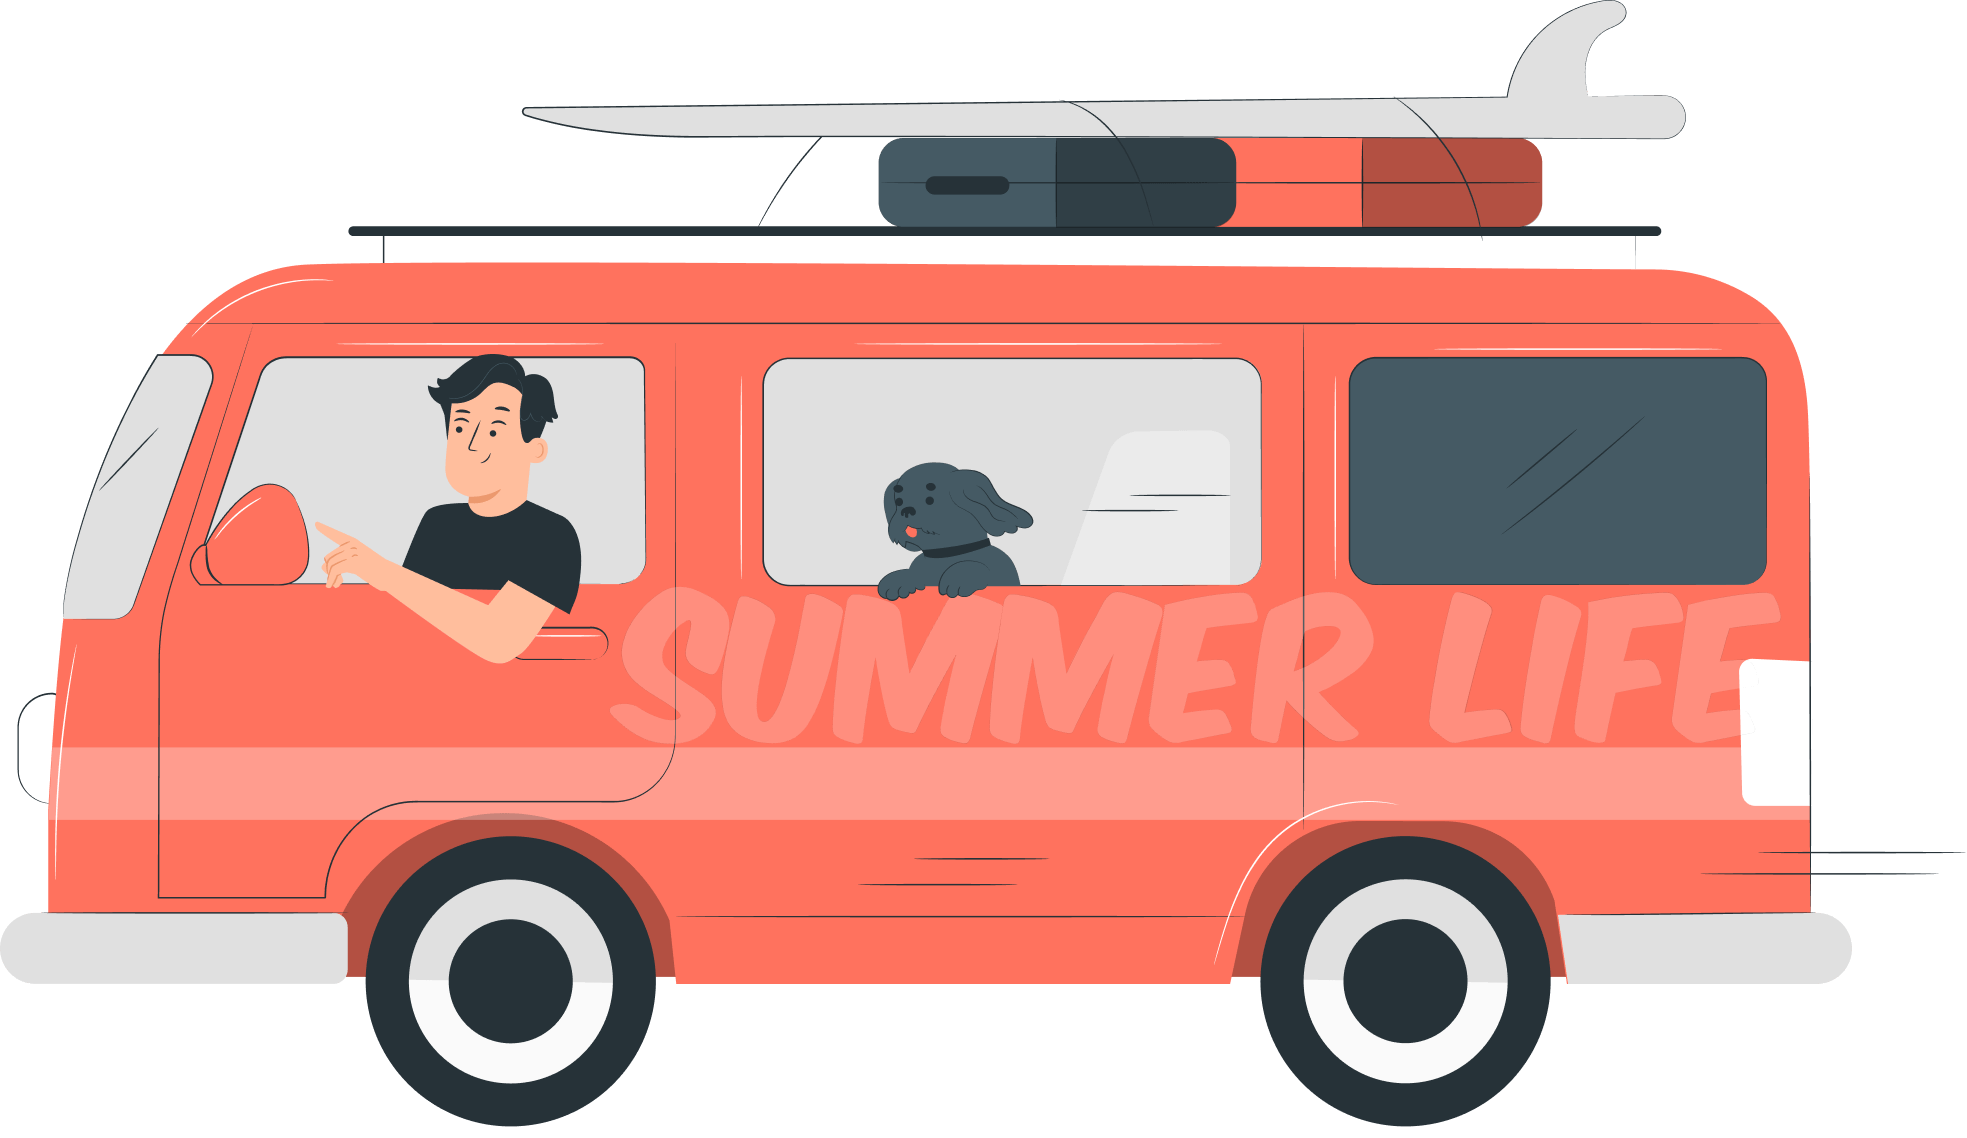
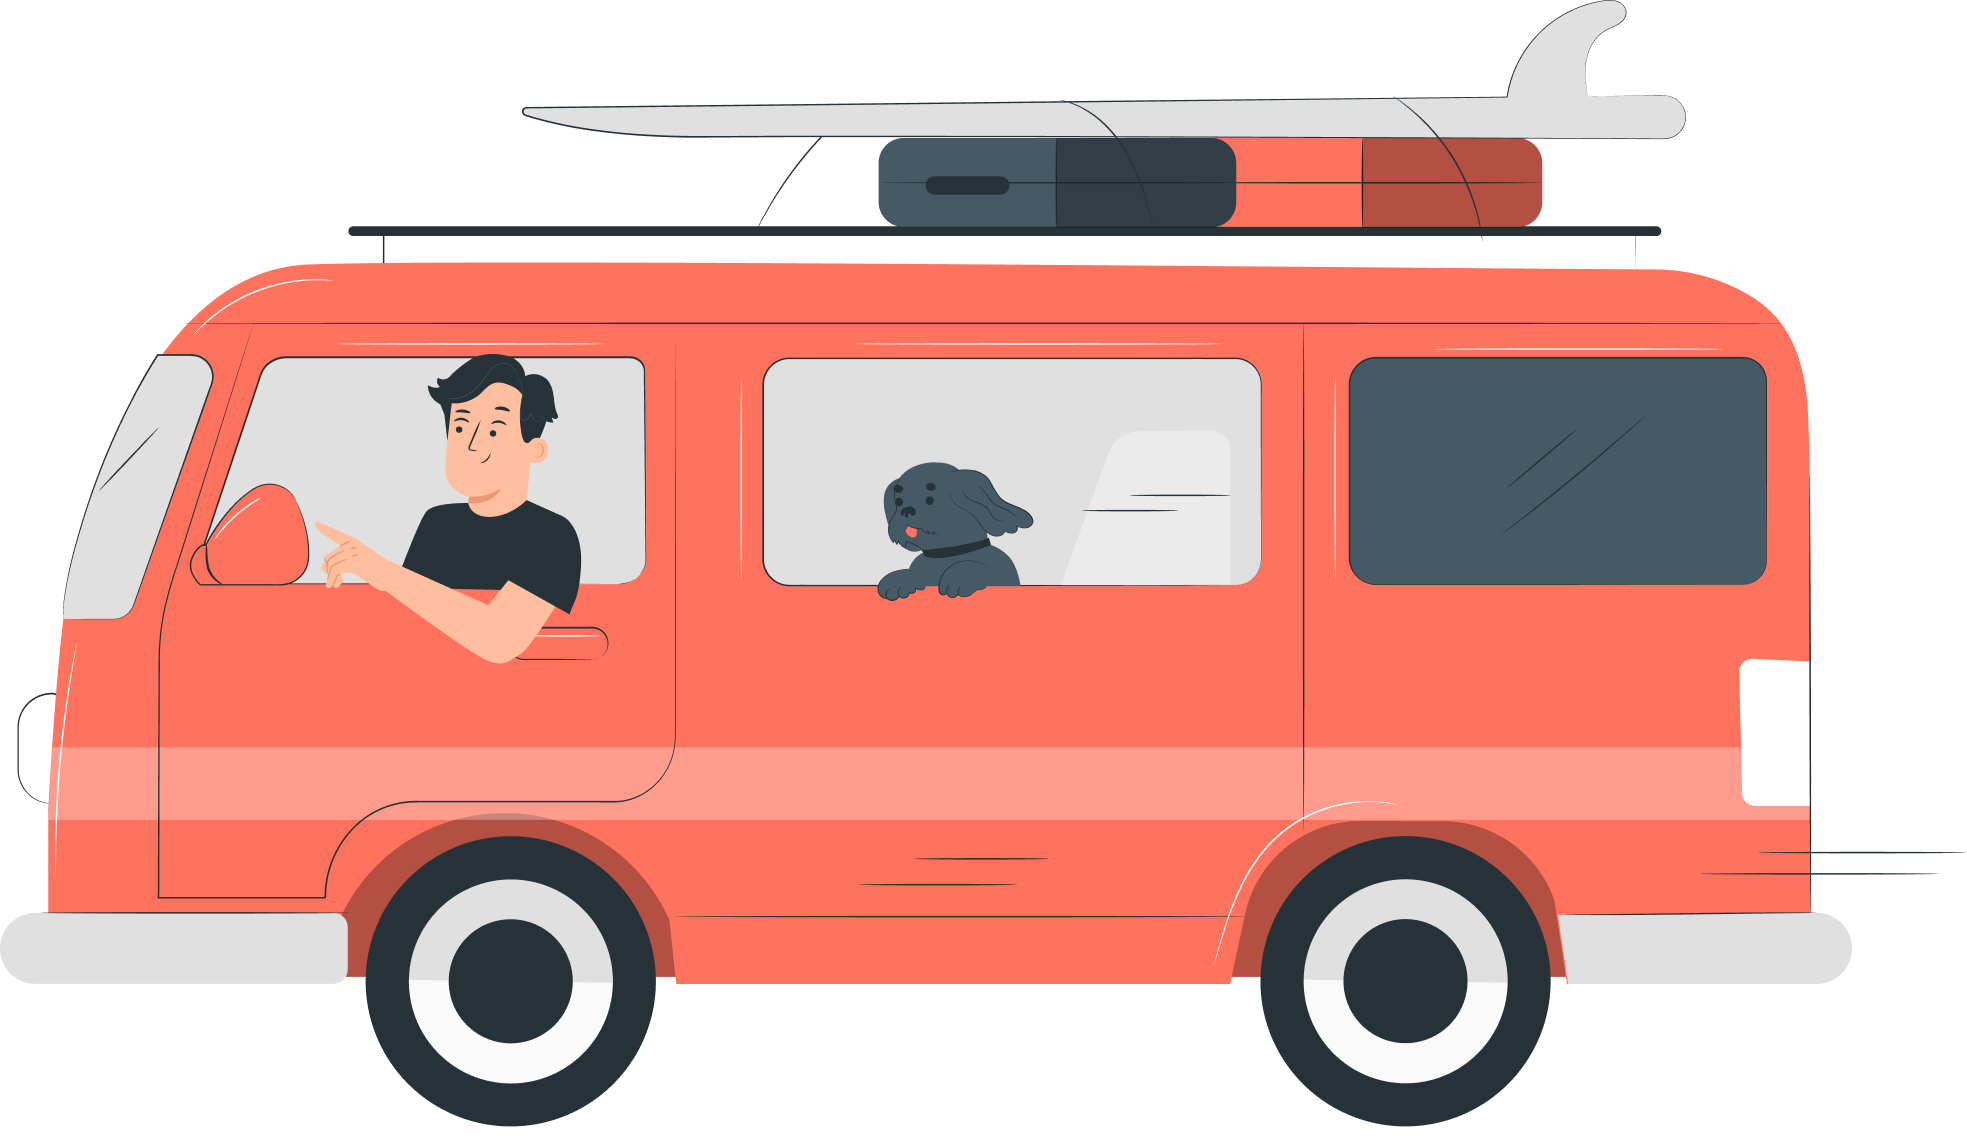
fix: updated van image and update few sequences

Changed region(s): [[0.3101, 0.5228, 0.9304, 0.6766]]

diff --git a/components/sections/Fleet.tsx b/components/sections/Fleet.tsx
@@ -79,6 +79,17 @@ function Fleet() {
 
     const items = [
         {
+            title: "Force Tempo Traveller",
+            seats: "Seats 12–17",
+            description: "Perfect medium groups.",
+            carouselImages: [
+                "/images/Traveller.jpeg",
+                "/images/Traveller-1.jpeg",
+                "/images/Traveller-2.jpeg",
+                "/images/Traveller-3.jpeg",
+            ],
+        },
+        {
             title: "Bus",
             seats: "Seats 40–50",
             description: "Large group comfort.",
@@ -92,14 +103,8 @@ function Fleet() {
             ],
         },
         {
-            title: "Red Bus",
-            seats: "Seats 45–52",
-            description: "Premium group travel.",
-            carouselImages: ["/images/RedBus.jpeg", "/images/RedBus-1.jpeg"],
-        },
-        {
-            title: "Creta",
-            seats: "Seats 5",
+            title: "Innova Crysta",
+            seats: "Seats 7",
             description: "Executive family comfort.",
             carouselImages: [
                 "/images/Car.jpeg",
@@ -108,15 +113,10 @@ function Fleet() {
             ],
         },
         {
-            title: "Traveller",
-            seats: "Seats 12–17",
-            description: "Perfect medium groups.",
-            carouselImages: [
-                "/images/Traveller.jpeg",
-                "/images/Traveller-1.jpeg",
-                "/images/Traveller-2.jpeg",
-                "/images/Traveller-3.jpeg",
-            ],
+            title: "Red Bus",
+            seats: "Seats 45–52",
+            description: "Premium group travel.",
+            carouselImages: ["/images/RedBus.jpeg", "/images/RedBus-1.jpeg"],
         },
     ];
 

diff --git a/components/sections/AboutUs.tsx b/components/sections/AboutUs.tsx
@@ -39,8 +39,8 @@ function AboutUs() {
 
             <div className="w-full h-auto lg:h-[40vw] flex flex-col lg:flex-row items-center justify-between gap-3 sm:gap-4 md:gap-2 py-6 md:py-8">
                 <Image
-                    src={"https://images.pexels.com/photos/917510/pexels-photo-917510.jpeg"}
-                    alt="Photo by Te lensFix: https://www.pexels.com/photo/photo-of-woman-sitting-on-boat-spreading-her-arms-1371360/"
+                    src={"https://images.pexels.com/photos/2486402/pexels-photo-2486402.jpeg"}
+                    alt="Photo by Raphael Brasileiro: https://www.pexels.com/photo/inside-public-transportation-2486402/"
                     width={300}
                     height={300}
                     className="object-cover rounded-4xl rounded-se-xl w-full h-64 sm:h-80 md:h-96 lg:w-[30%] lg:h-full lg:transform-[translateY(12%)]"
@@ -53,8 +53,8 @@ function AboutUs() {
                     className="object-cover rounded-xl rounded-se-4xl rounded-bl-4xl w-full h-64 sm:h-80 md:h-96 lg:w-[36%] lg:h-full"
                 />
                 <Image
-                    src={"https://images.pexels.com/photos/2422265/pexels-photo-2422265.jpeg"}
-                    alt="Photo by Josh Hild: https://www.pexels.com/photo/photo-of-tent-at-near-trees-2422265/"
+                    src={"https://images.pexels.com/photos/2464531/pexels-photo-2464531.jpeg"}
+                    alt="Photo by Djordje Petrovic: https://www.pexels.com/photo/photo-of-vehicles-on-highway-2464531/"
                     width={300}
                     height={300}
                     className="object-cover rounded-4xl rounded-bl-xl w-full h-64 sm:h-80 md:h-96 lg:w-[30%] lg:h-full lg:transform-[translateY(-12%)]"

diff --git a/components/sections/HeroSection.tsx b/components/sections/HeroSection.tsx
@@ -14,16 +14,16 @@ const CAROUSEL_DATA: ImageProps[] = [
         height: 279,
     },
     {
-        src: "/carousel/Car.png",
-        alt: "Car Image from storyset",
-        width: 455,
-        height: 279,
-    },
-    {
         src: "/carousel/MiniBus.png",
         alt: "Mini Bus Image from storyset",
         width: 605,
         height: 215,
+    },
+    {
+        src: "/carousel/Car.png",
+        alt: "Car Image from storyset",
+        width: 455,
+        height: 279,
     },
     {
         src: "/carousel/DoubleDecker.png",
@@ -175,7 +175,7 @@ function HeroSection() {
                     animate={{ opacity: 1, y: 0 }}
                     transition={{ duration: 0.8, delay: 0.2 }}
                 >
-                    <span className="text-primary">Shetty tours</span> <br /> & travels
+                    <span className="text-primary">Shetty Tours</span> <br /> & Travels
                 </motion.h1>
                 <div className="w-[80%] flex items-center justify-center">
                     <motion.a

diff --git a/components/sections/GetInTouch/index.tsx b/components/sections/GetInTouch/index.tsx
@@ -92,7 +92,7 @@ ${formData.interestedFleet ? `🚙 Fleet: ${formData.interestedFleet}` : ""}
 Looking forward to your response!`;
 
         const encodedMessage = encodeURIComponent(message);
-        const whatsappNumber = "919321781063";
+        const whatsappNumber = "919820040392";
         const whatsappUrl = `https://wa.me/${whatsappNumber}?text=${encodedMessage}`;
 
         window.open(whatsappUrl, "_blank");
@@ -232,7 +232,7 @@ Looking forward to your response!`;
                         onChange={(val) => updateField("interestedFleet", val)}
                         options={[
                             { value: "car-creta", label: "Car (Creta)" },
-                            { value: "force-traveller", label: "Force Traveller" },
+                            { value: "force-traveller", label: "Force Tempo Traveller" },
                             { value: "mini-bus", label: "Mini Bus" },
                             { value: "bus", label: "Bus" }
                         ]}
